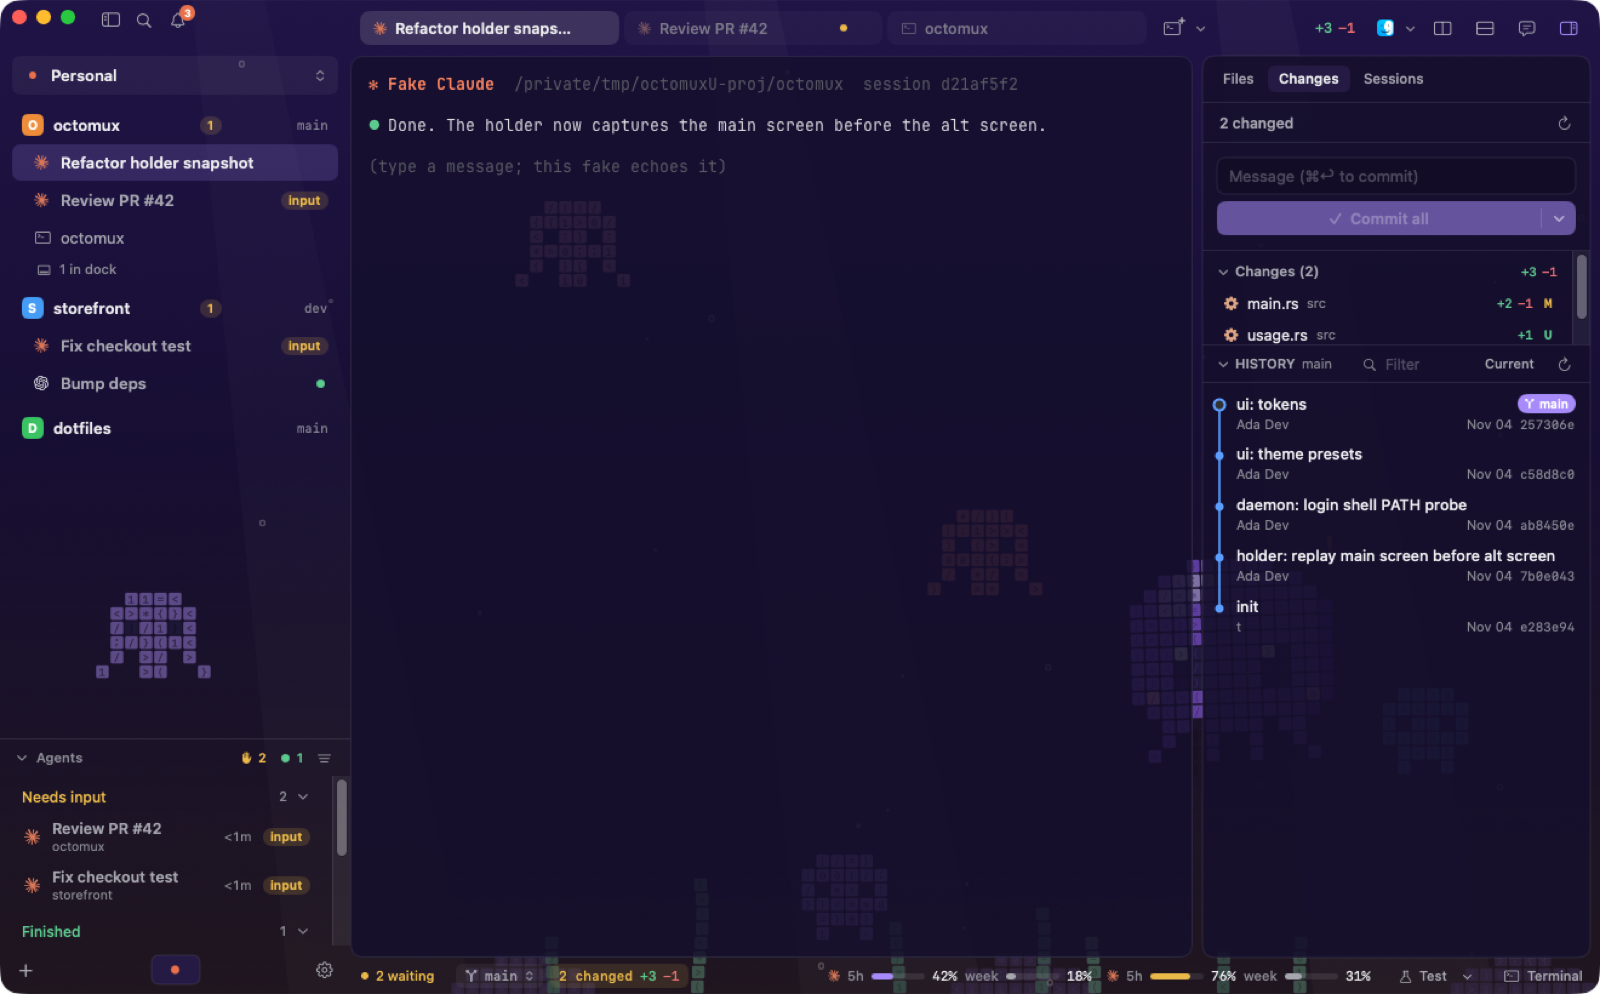
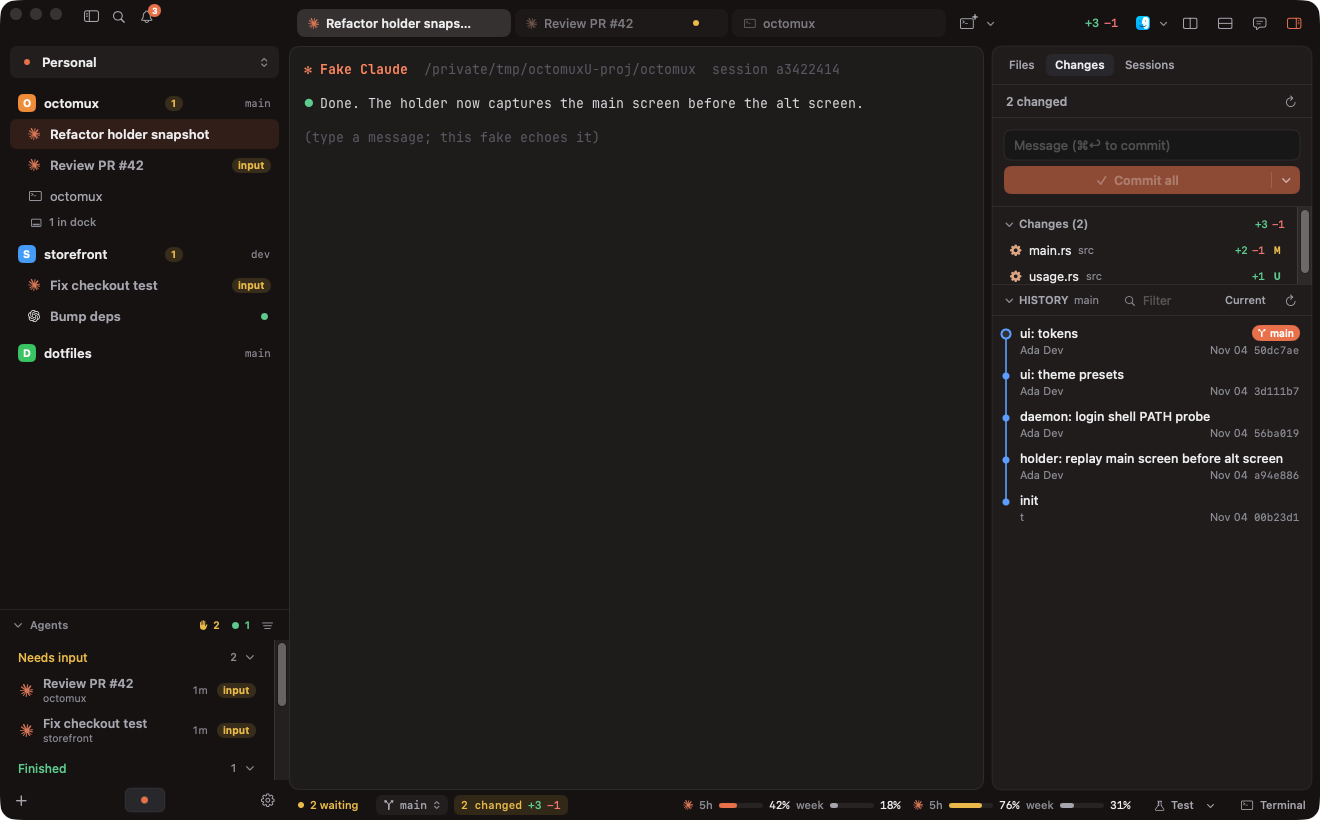
README: plain dark mode as the hero image
Claude-Session: https://claude.ai/code/session_01GggZd1ES48DvkxFjukP7fq

diff --git a/README.md b/README.md
@@ -14,7 +14,7 @@
 </p>
 
 <p align="center">
-  <img src="docs/assets/screenshot.png" alt="Octomux with the Octo Deep scene: projects and agents on the left, a Claude Code session in the middle, Changes and History on the right" width="900" />
+  <img src="docs/assets/screenshot.png" alt="Octomux in dark mode: projects and agents on the left, a Claude Code session in the middle, Changes and History on the right" width="900" />
 </p>
 
 ---
